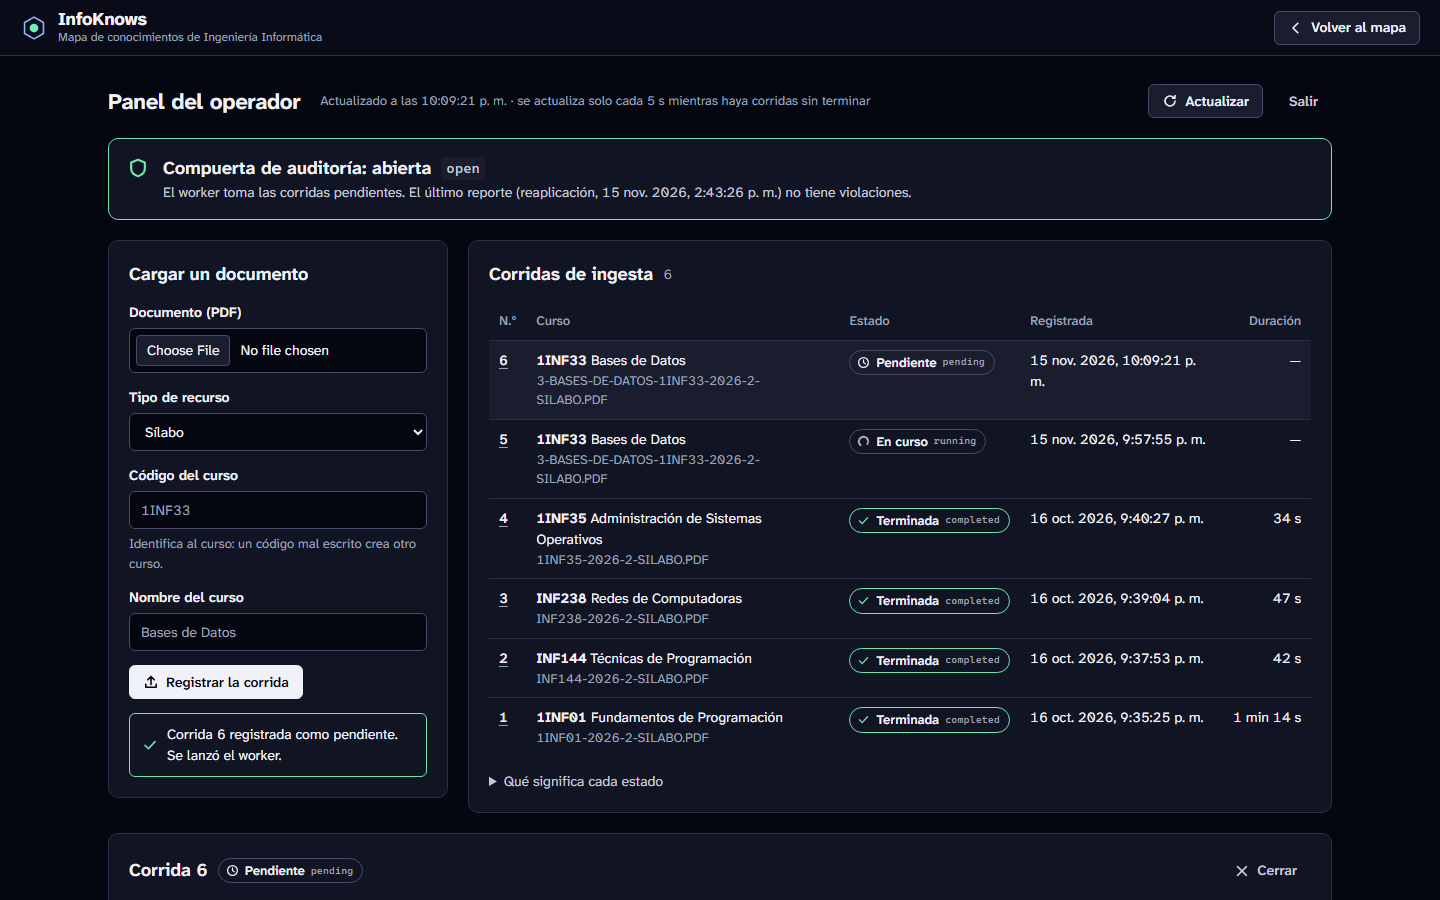
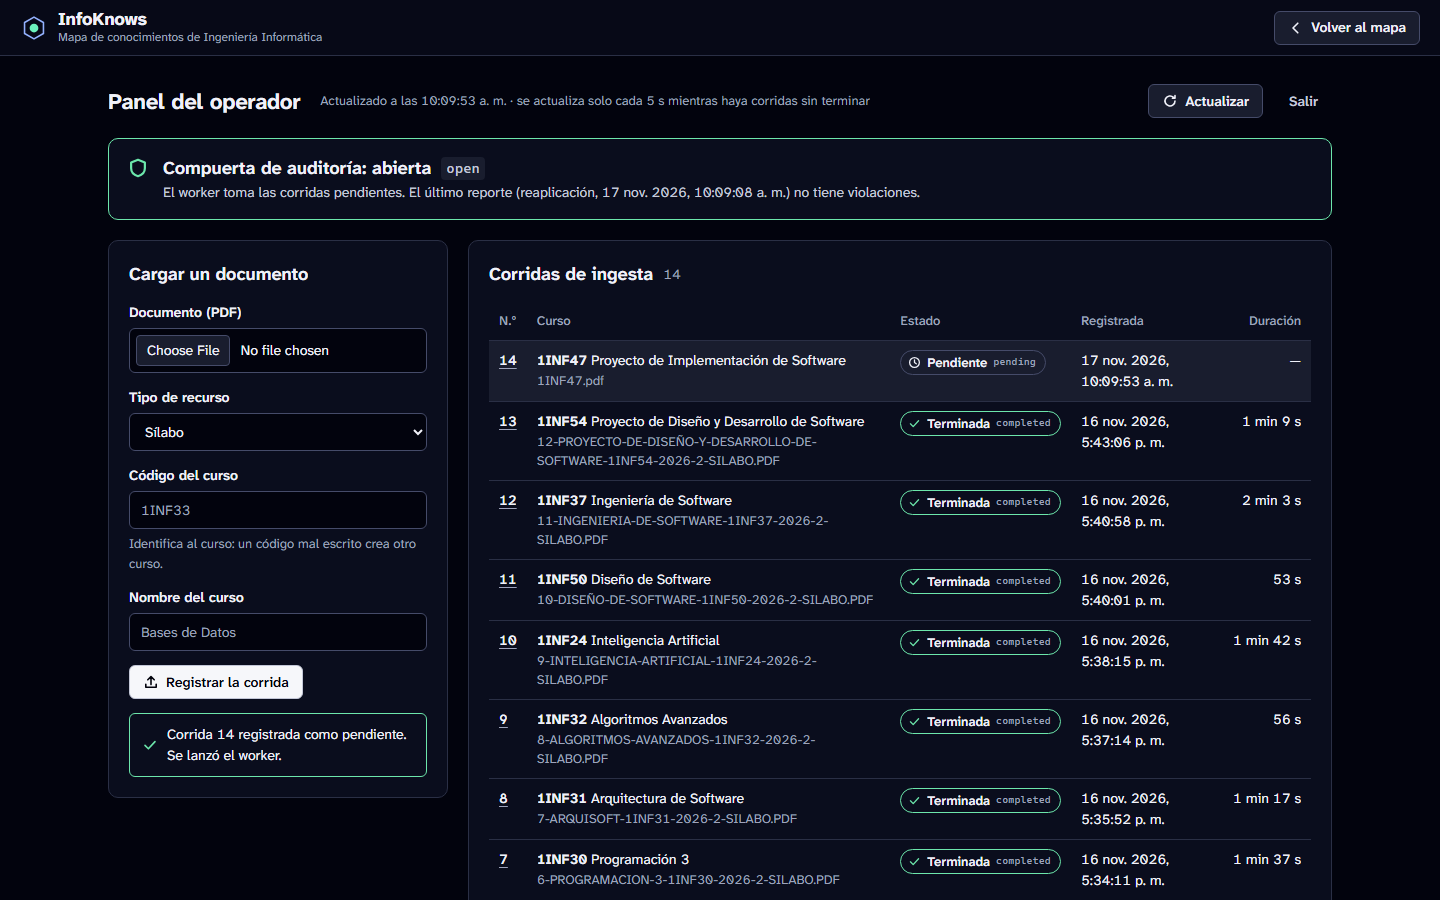
run CA-11 to a completed ingestion with a simulated provider
scripts/replay_provider.py answers Chat Completions with the model output a
real run left in the operational store. On a rehearsal graph in the state run
14 of the final chain saw (load, then reapply runs 1-13), the operator
walkthrough uploads 1INF47 and sees pending, running, completed, the 15 rules
of the closing audit and no discards: 5 of 5. The facts written match run 14:
same 21 nodes and 51 edges, only the generated keys differ. Captures O1-O6
retaken; docs/r6/README section 4 rewritten.

diff --git a/scripts/replay_provider.py b/scripts/replay_provider.py
@@ -1,0 +1,125 @@
+"""Development aid: a simulated language model provider for rehearsing an ingestion.
+
+It answers the Chat Completions route of an OpenAI compatible provider with the
+model output that a real run left in an operational store, whatever it is
+asked. With ``IEKG_LLM_BASE_URL`` pointed at it, the worker reads the PDF,
+assembles, validates, writes and audits as it does in production, but nothing
+is sent to a provider and nothing is paid.
+
+It is not a provider of the system and is not an entry point: it exists for the
+technical walkthrough of CA-11 (the operator panel), which needs a run that
+ends well without a real model. The output it replays was produced against the
+graph as it was when that run started, so the rehearsal graph should be in that
+same state (``load``, then ``reapply`` with the facts of the runs before it).
+
+    uv run python scripts/replay_provider.py --operational-db var/medicion-r4/operational.sqlite --run 14
+"""
+
+from __future__ import annotations
+
+import argparse
+import json
+import sqlite3
+import sys
+import time
+from http.server import BaseHTTPRequestHandler, ThreadingHTTPServer
+from pathlib import Path
+
+ROUTE = "/v1/chat/completions"
+MODEL_NAME = "simulated-replay"
+
+
+def stored_output(operational_db: Path, run_id: int) -> str:
+    """The model output stored for ``run_id``; exits if there is none."""
+    with sqlite3.connect(f"file:{operational_db.as_posix()}?mode=ro", uri=True) as connection:
+        row = connection.execute("SELECT output FROM model_outputs WHERE run_id = ?", (run_id,)).fetchone()
+    if row is None:
+        sys.exit(f"error: run {run_id} has no stored model output in {operational_db}")
+    return row[0]
+
+
+def completion(output: str, request: dict, counter: int) -> dict:
+    """A Chat Completions response whose only choice is ``output``."""
+    return {
+        "id": f"replay-{counter}",
+        "object": "chat.completion",
+        "created": int(time.time()),
+        # The model the run records: it says the answer was simulated.
+        "model": f"{MODEL_NAME} ({request.get('model', '?')})",
+        "choices": [
+            {
+                "index": 0,
+                "message": {"role": "assistant", "content": output},
+                "finish_reason": "stop",
+            }
+        ],
+        # Nothing was generated: no tokens are reported.
+        "usage": {"prompt_tokens": 0, "completion_tokens": 0, "total_tokens": 0},
+    }
+
+
+def describe(request: dict) -> str:
+    """One line about what was asked, without the document."""
+    response_format = request.get("response_format") or {}
+    schema = response_format.get("json_schema") or {}
+    characters = sum(len(str(message.get("content", ""))) for message in request.get("messages", []))
+    return (
+        f"model={request.get('model')} format={response_format.get('type')} "
+        f"schema={schema.get('name')} strict={schema.get('strict')} "
+        f"messages={len(request.get('messages', []))} characters={characters}"
+    )
+
+
+def make_handler(output: str):
+    counter = {"requests": 0}
+
+    class ReplayHandler(BaseHTTPRequestHandler):
+        def do_POST(self) -> None:  # noqa: N802 (the name http.server calls)
+            if self.path.rstrip("/") != ROUTE:
+                self.send_error(404, f"only {ROUTE} is simulated")
+                return
+            length = int(self.headers.get("Content-Length", "0"))
+            try:
+                request = json.loads(self.rfile.read(length) or b"{}")
+            except json.JSONDecodeError:
+                self.send_error(400, "the request body is not JSON")
+                return
+            counter["requests"] += 1
+            print(f"request {counter['requests']}: {describe(request)}", flush=True)
+            body = json.dumps(completion(output, request, counter["requests"])).encode("utf-8")
+            self.send_response(200)
+            self.send_header("Content-Type", "application/json")
+            self.send_header("Content-Length", str(len(body)))
+            self.end_headers()
+            self.wfile.write(body)
+
+        def log_message(self, format: str, *args) -> None:  # noqa: A002 (signature of http.server)
+            pass
+
+    return ReplayHandler
+
+
+def main(argv: list[str] | None = None) -> int:
+    parser = argparse.ArgumentParser(description=__doc__.split("\n\n")[0])
+    parser.add_argument("--operational-db", type=Path, required=True, help="the store of the real run")
+    parser.add_argument("--run", type=int, required=True, help="the run whose model output is replayed")
+    parser.add_argument("--host", default="127.0.0.1")
+    parser.add_argument("--port", type=int, default=8766)
+    arguments = parser.parse_args(argv)
+
+    output = stored_output(arguments.operational_db, arguments.run)
+    server = ThreadingHTTPServer((arguments.host, arguments.port), make_handler(output))
+    print(
+        f"replaying the output of run {arguments.run} ({len(output)} characters) "
+        f"at http://{arguments.host}:{arguments.port}/v1",
+        flush=True,
+    )
+    try:
+        server.serve_forever()
+    except KeyboardInterrupt:
+        pass
+    return 0
+
+
+if __name__ == "__main__":
+    raise SystemExit(main())

diff --git a/docs/r6/README.md b/docs/r6/README.md
@@ -2,7 +2,7 @@
 
 **Fecha:** 2026-11-17 · **Grafo:** corrida final de R4 (CS2023 y los 13 sílabos; hoja de datos 2 del
 plan) · **Navegador:** Chromium sin interfaz, con Playwright 1.65.1, a 1440 × 900. Las capturas O1 a
-O6 y la sección 4 son del 2026-11-15, sobre el grafo de desarrollo y con el aspecto anterior.
+O6 son de un grafo de ensayo con las trece corridas de la cadena final (sección 4).
 
 La aplicación está en [`web/`](../../web/README.md). Aquí quedan las capturas de sus pantallas y el
 resultado de recorrer los casos del
@@ -40,8 +40,8 @@ Con el nombre de la captura equivalente de R5 (`docs/r5/p1-lienzo/capturas/`) do
 | [`O1-acceso-rechazado`](capturas/O1-acceso-rechazado.png) | El acceso del operador rechaza un token inválido | CU-11 |
 | [`O2-panel-del-operador`](capturas/O2-panel-del-operador.png) | El panel: compuerta de auditoría, carga y corridas | CU-11 |
 | [`O3-corrida-registrada`](capturas/O3-corrida-registrada.png) | Una corrida recién registrada, pendiente | CU-11 |
-| [`O4-detalle-de-la-corrida`](capturas/O4-detalle-de-la-corrida.png) | El resumen de una corrida que terminó como fallida | CU-11 |
-| [`O5-auditoria-de-cierre`](capturas/O5-auditoria-de-cierre.png), [`O6-descartes`](capturas/O6-descartes.png) | Sus pestañas de auditoría de cierre y de descartes, vacías | CU-11 |
+| [`O4-detalle-de-la-corrida`](capturas/O4-detalle-de-la-corrida.png) | El resumen de esa corrida, ya terminada | CU-11 |
+| [`O5-auditoria-de-cierre`](capturas/O5-auditoria-de-cierre.png), [`O6-descartes`](capturas/O6-descartes.png) | Su auditoría de cierre, regla por regla, y su pestaña de descartes, sin descartes | CU-11 |
 
 ## 2. Recorrido técnico de CA-01 a CA-10
 
@@ -111,30 +111,34 @@ es justo lo que mide la prueba de aceptación.
 
 ## 4. Recorrido técnico de CA-11 (panel del operador)
 
-`web/tests/operator-walkthrough.mjs`, contra la API local, con el sílabo de 1INF33 y el servidor
-local de pruebas como proveedor del modelo de lenguaje. **El recorrido no llegó a ver una ingesta
-terminada**, por dos causas ajenas a la aplicación:
+`web/tests/operator-walkthrough.mjs` sube un documento, así que escribe en el grafo. Por eso se corrió
+en un entorno de ensayo aparte: otro Neo4j, la API en otro puerto y una copia de los almacenes. El
+grafo y los almacenes de la medición no se tocaron.
 
-- En el primer intento (corrida 5) el worker murió al cargar los modelos de lectura de PDF, por falta
-  de memoria en la máquina (`memory allocation of 2359296 bytes failed`). La corrida quedó «en
-  curso» en el almacén operacional y el panel la siguió mostrando así: es la limitación que declara
-  ADR-007, una corrida interrumpida no se recupera sola.
-- En el segundo (corrida 6) el servidor local de pruebas ya no respondía, y la corrida terminó como
-  fallida (`provider: Connection error.`).
+**El proveedor del modelo de lenguaje fue simulado**, como el plan permite.
+`scripts/replay_provider.py` responde a la ruta de Chat Completions con la salida que dejó en el
+almacén operacional una corrida real: la 14 de la cadena final (1INF47, Proyecto de Implementación
+de Software). El resto de la ingesta es el de producción: el worker lee el PDF con Docling, arma el
+lote, lo valida, lo escribe y lo audita. El grafo de ensayo se preparó como lo vio esa corrida al
+empezar: `load` y `reapply` con los hechos de las corridas 1 a 13.
 
 | Paso | Resultado esperado | Resultado | Lo que se vio |
 |---|---|---|---|
 | 1 | Un token inválido se rechaza y no da acceso | cumple | «El sistema rechazó ese token. Revísalo y vuelve a intentarlo.» |
 | 2 | El token del operador da acceso y muestra el estado de la compuerta de auditoría | cumple | «Compuerta de auditoría: abierta», con el último reporte, de la reaplicación, sin violaciones |
-| 3 | Subir el sílabo con su tipo, código y nombre de curso registra una corrida nueva, pendiente | cumple | «Corrida 6 registrada como pendiente. Se lanzó el worker.» |
-| 4 | La corrida avanza hasta un estado final, con su duración | cumple, con un estado final de fallo | Estados vistos, sin tocar nada: pendiente → en curso → fallida; duración 40 s |
-| 5 | Sus descartes, o el aviso de que no hubo, y su reporte de auditoría regla por regla; el estado es el del almacén operacional | cumple en parte | Estado «fallida», igual que en el almacén; aviso de que no hubo descartes; sin reporte de cierre, porque una corrida fallida no escribe |
+| 3 | Subir el sílabo con su tipo, código y nombre de curso registra una corrida nueva, pendiente | cumple | «Corrida 14 registrada como pendiente. Se lanzó el worker.» |
+| 4 | La corrida avanza hasta un estado final, con su duración | cumple | Estados vistos, sin tocar nada: pendiente → en curso → terminada; duración 1 min 44 s |
+| 5 | Sus descartes, o el aviso de que no hubo, y su reporte de auditoría regla por regla; el estado es el del almacén operacional | cumple | Estado «terminada», igual que en el almacén; 15 reglas en la auditoría de cierre, sin violaciones; 0 descartes |
 
-Lo que queda por ver en CA-11: una corrida que termine bien, con su reporte de cierre regla por regla.
-Ese reporte sí se vio en el panel para las cuatro corridas terminadas que ya estaban en el almacén
-(15 reglas cada una), pero no para una corrida subida en este recorrido. Hay que repetirlo con el
-servidor de pruebas levantado y memoria libre.
+Los hechos que escribió la corrida de ensayo son los de la corrida 14 real: los mismos 21 nodos y 51
+aristas, con los mismos nombres y propiedades y los mismos destinos en CS2023. Solo cambian las
+claves, que nacen al subir el documento. El simulador recibió una sola llamada, con el esquema de
+salida estricto. La corrida registra como modelo `simulated-replay (gpt-6.1-sol)` y 0 tokens, así
+que en el almacén queda dicho que la respuesta fue simulada.
 
-Ninguna de las dos corridas escribió en el grafo. Después se ejecutaron `load` y `reapply`, desde el
-contenedor de construcción, y el recorrido de CA-01 a CA-10 se repitió con el mismo resultado.
+Lo que este recorrido no comprueba es la llamada a un proveedor real; esa parte la midió la corrida
+final de R4. Hubo dos intentos anteriores, el 2026-11-15, con un proveedor local de pruebas, y no
+llegaron a una corrida terminada. En el primero, el worker murió por falta de memoria al cargar los
+modelos de lectura de PDF, y la corrida quedó «en curso», que es la limitación que declara ADR-007.
+En el segundo, el proveedor ya no respondía y la corrida terminó como fallida.
 

diff --git a/CLAUDE.md b/CLAUDE.md
@@ -138,6 +138,10 @@ scripts/tune_prompt.py         Ayuda de desarrollo para el ajuste del prompt:
                                de referencia, sin escribir en Neo4j, con sus
                                almacenes en `var/tuning/`. Rechaza 1INF27 y
                                1INF37, y cuenta con tope los llamados pagados.
+scripts/replay_provider.py     Ayuda de desarrollo: proveedor simulado para
+                               ensayar una ingesta (CA-11). Responde Chat
+                               Completions con la salida guardada de una
+                               corrida real; no paga ni envía nada.
 tests/                         Pruebas; una negativa por cada forma de violar
                                cada regla o código EX.
 web/                           R6: InfoKnows, la aplicación web (#web del C4).
